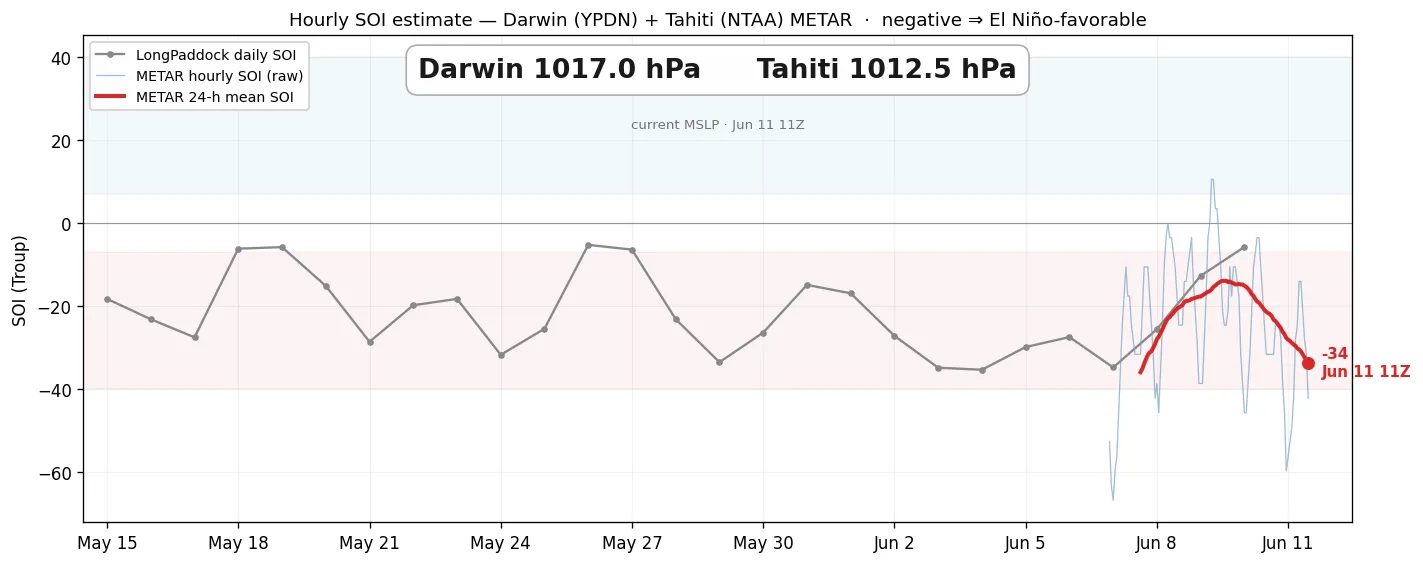
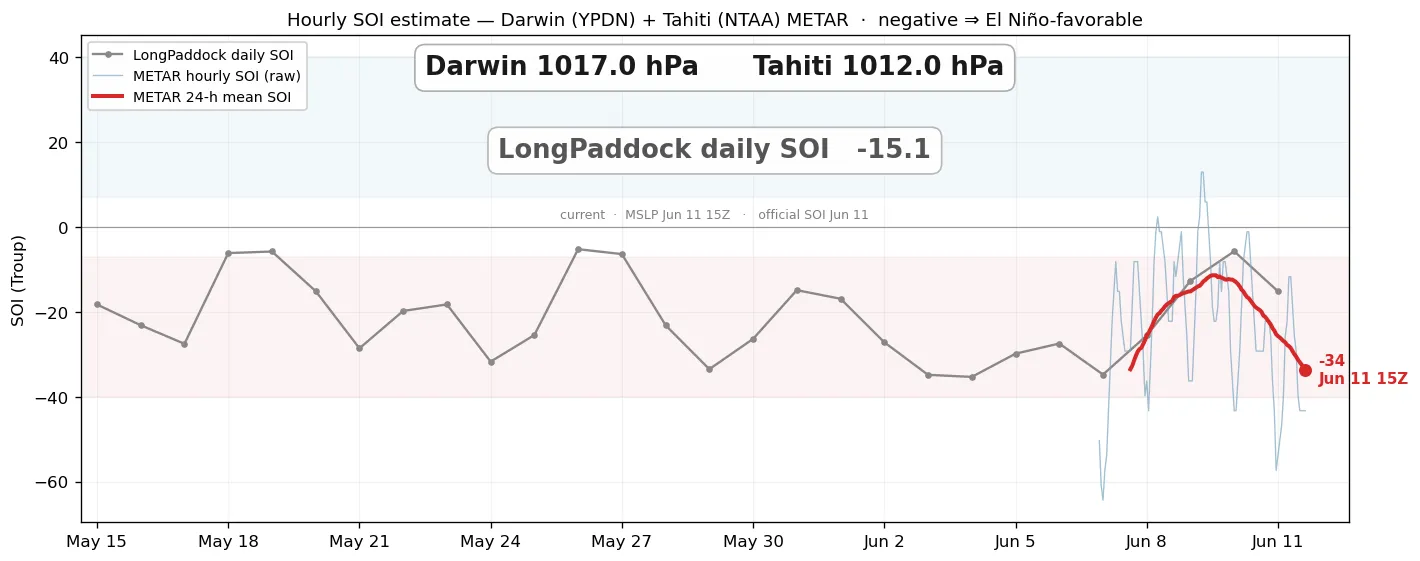
Hourly SOI: add the latest official LongPaddock daily SOI in large font
Below the Darwin/Tahiti MSLP readout, in matching large bold (grey, to tie it to the LongPaddock
line), with the observation date. Gives the headline official index alongside the live ingredients.

diff --git a/scripts/sst/hourly_soi.py b/scripts/sst/hourly_soi.py
@@ -154,16 +154,24 @@ def plot(raw, soi24, lp_soi, bias, hist, out: Path):
     ax.xaxis.set_major_locator(mdates.DayLocator(interval=3))
     ax.xaxis.set_major_formatter(mdates.DateFormatter("%b %-d"))
     ax.legend(loc="upper left", fontsize=8.5, framealpha=0.9); ax.grid(alpha=0.15)
-    # current sea-level pressure at each station (the raw ingredients of the SOI), large + prominent
-    dar = hist["darwin"].dropna(); tah = hist["tahiti"].dropna()
+    # current ingredients (Darwin/Tahiti MSLP) + the latest official LongPaddock daily SOI, prominent
+    dar = hist["darwin"].dropna(); tah = hist["tahiti"].dropna(); lpd = lp_soi.dropna()
+    sub = []
     if len(dar) and len(tah):
-        when = max(dar.index[-1], tah.index[-1])
-        ax.text(0.5, 0.955, f"Darwin {dar.iloc[-1]:.1f} hPa      Tahiti {tah.iloc[-1]:.1f} hPa",
-                transform=ax.transAxes, ha="center", va="top", fontsize=16, fontweight="bold",
+        ax.text(0.5, 0.96, f"Darwin {dar.iloc[-1]:.1f} hPa      Tahiti {tah.iloc[-1]:.1f} hPa",
+                transform=ax.transAxes, ha="center", va="top", fontsize=15.5, fontweight="bold",
                 color="#1a1a1a", zorder=8,
-                bbox=dict(boxstyle="round,pad=0.45", fc="white", ec="0.65", alpha=0.92))
-        ax.text(0.5, 0.83, f"current MSLP · {when:%b %-d %HZ}", transform=ax.transAxes,
-                ha="center", va="top", fontsize=8, color="0.45", zorder=8)
+                bbox=dict(boxstyle="round,pad=0.4", fc="white", ec="0.65", alpha=0.92))
+        sub.append(f"MSLP {max(dar.index[-1], tah.index[-1]):%b %-d %HZ}")
+    if len(lpd):
+        ax.text(0.5, 0.79, f"LongPaddock daily SOI   {lpd.iloc[-1]:+.1f}",
+                transform=ax.transAxes, ha="center", va="top", fontsize=15.5, fontweight="bold",
+                color="#555555", zorder=8,
+                bbox=dict(boxstyle="round,pad=0.4", fc="white", ec="0.7", alpha=0.92))
+        sub.append(f"official SOI {lpd.index[-1]:%b %-d}")
+    if sub:
+        ax.text(0.5, 0.645, "current  ·  " + "   ·   ".join(sub), transform=ax.transAxes,
+                ha="center", va="top", fontsize=7.5, color="0.5", zorder=8)
     fig.tight_layout()
     out.parent.mkdir(parents=True, exist_ok=True)
     fig.savefig(out, dpi=120, bbox_inches="tight"); plt.close(fig)
